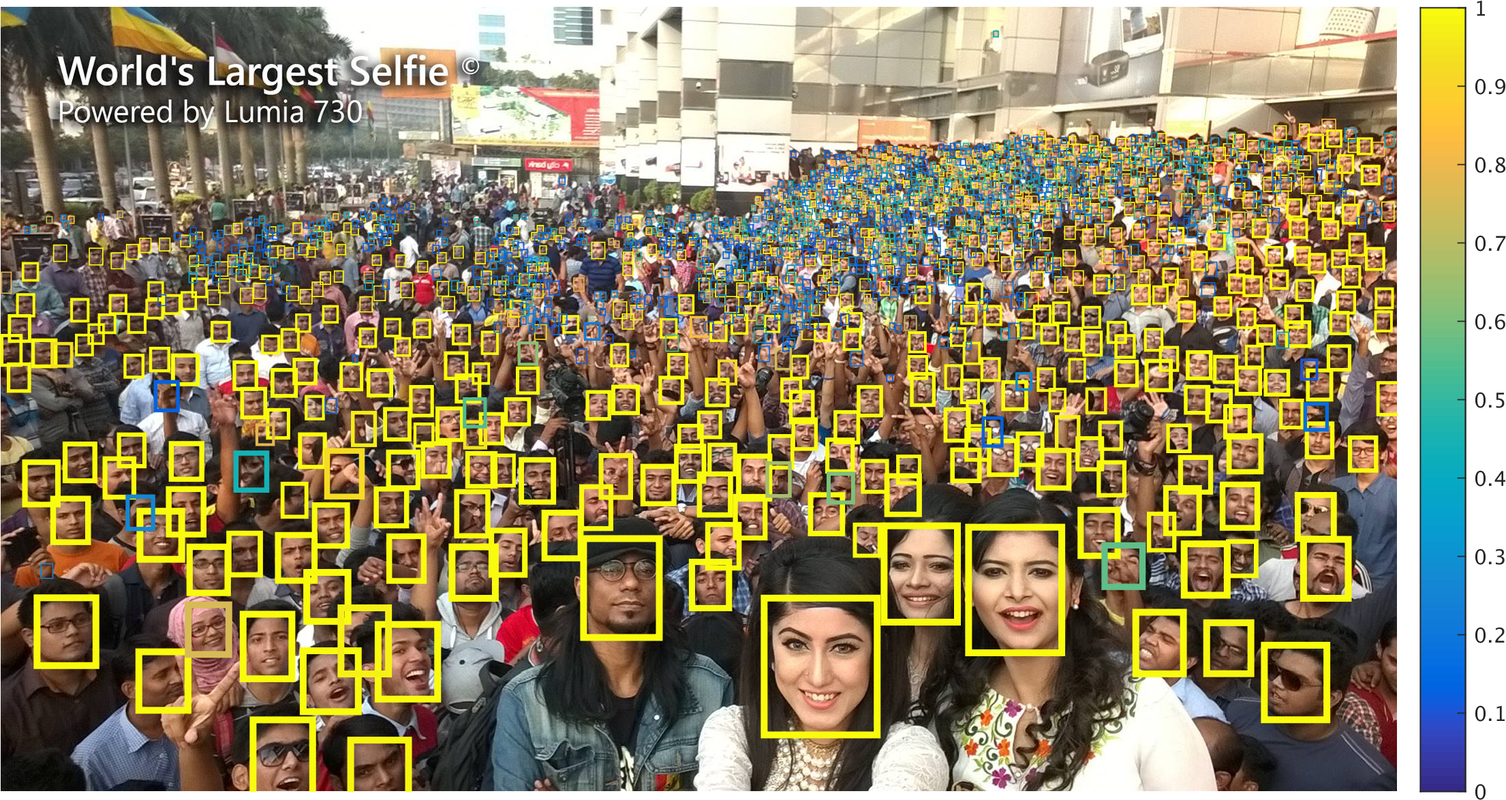
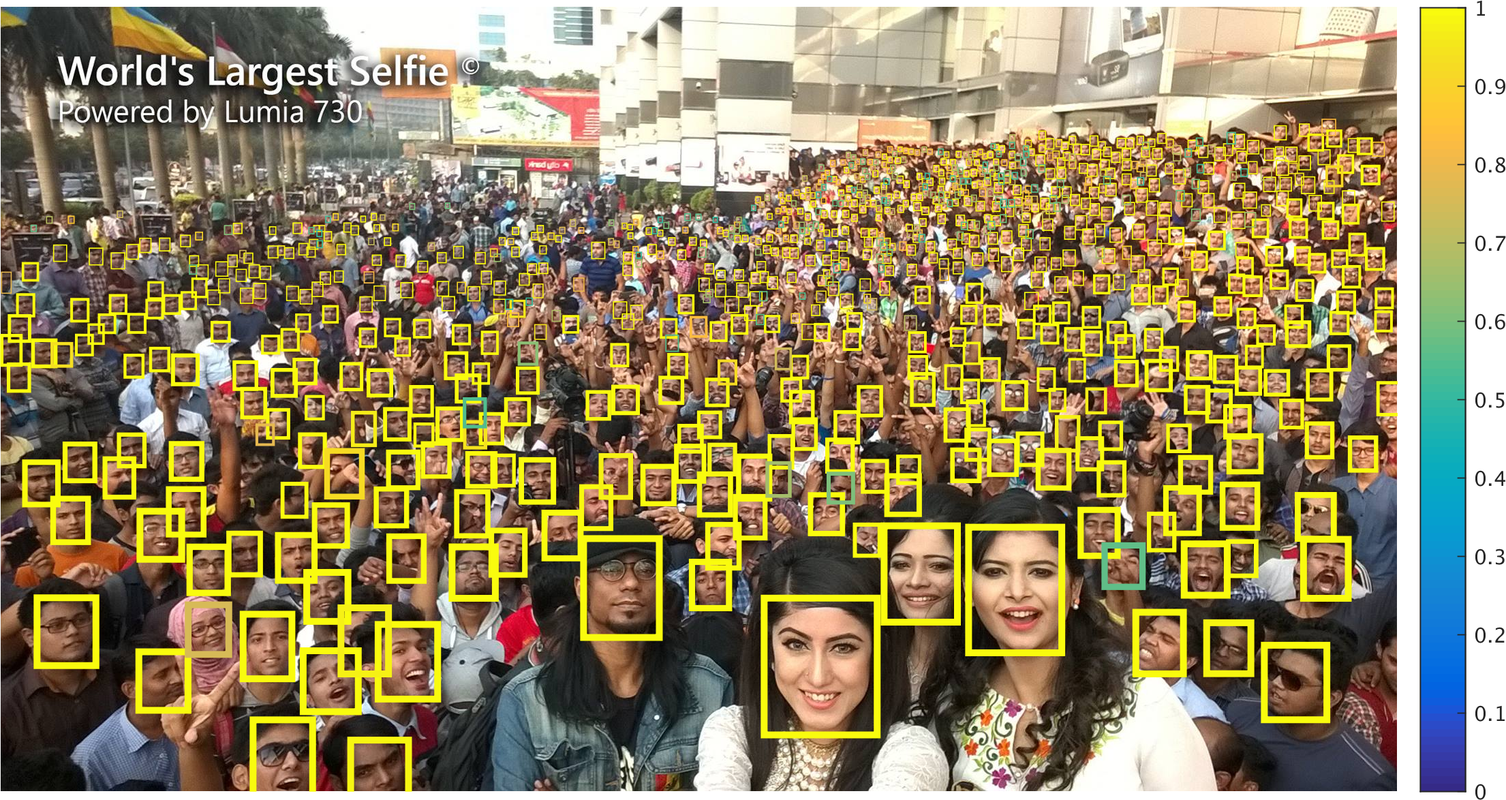
increase prob thresh to make demo look less messy

diff --git a/minimal_demo.m b/minimal_demo.m
@@ -21,7 +21,7 @@ end
 gpu_id = 2;
 
 % setup testing threshold
-thresh = 0.1;
+thresh = 0.5;
 nmsthresh = 0.1;
 
 % loadng pretrained model (and some final touches) 
